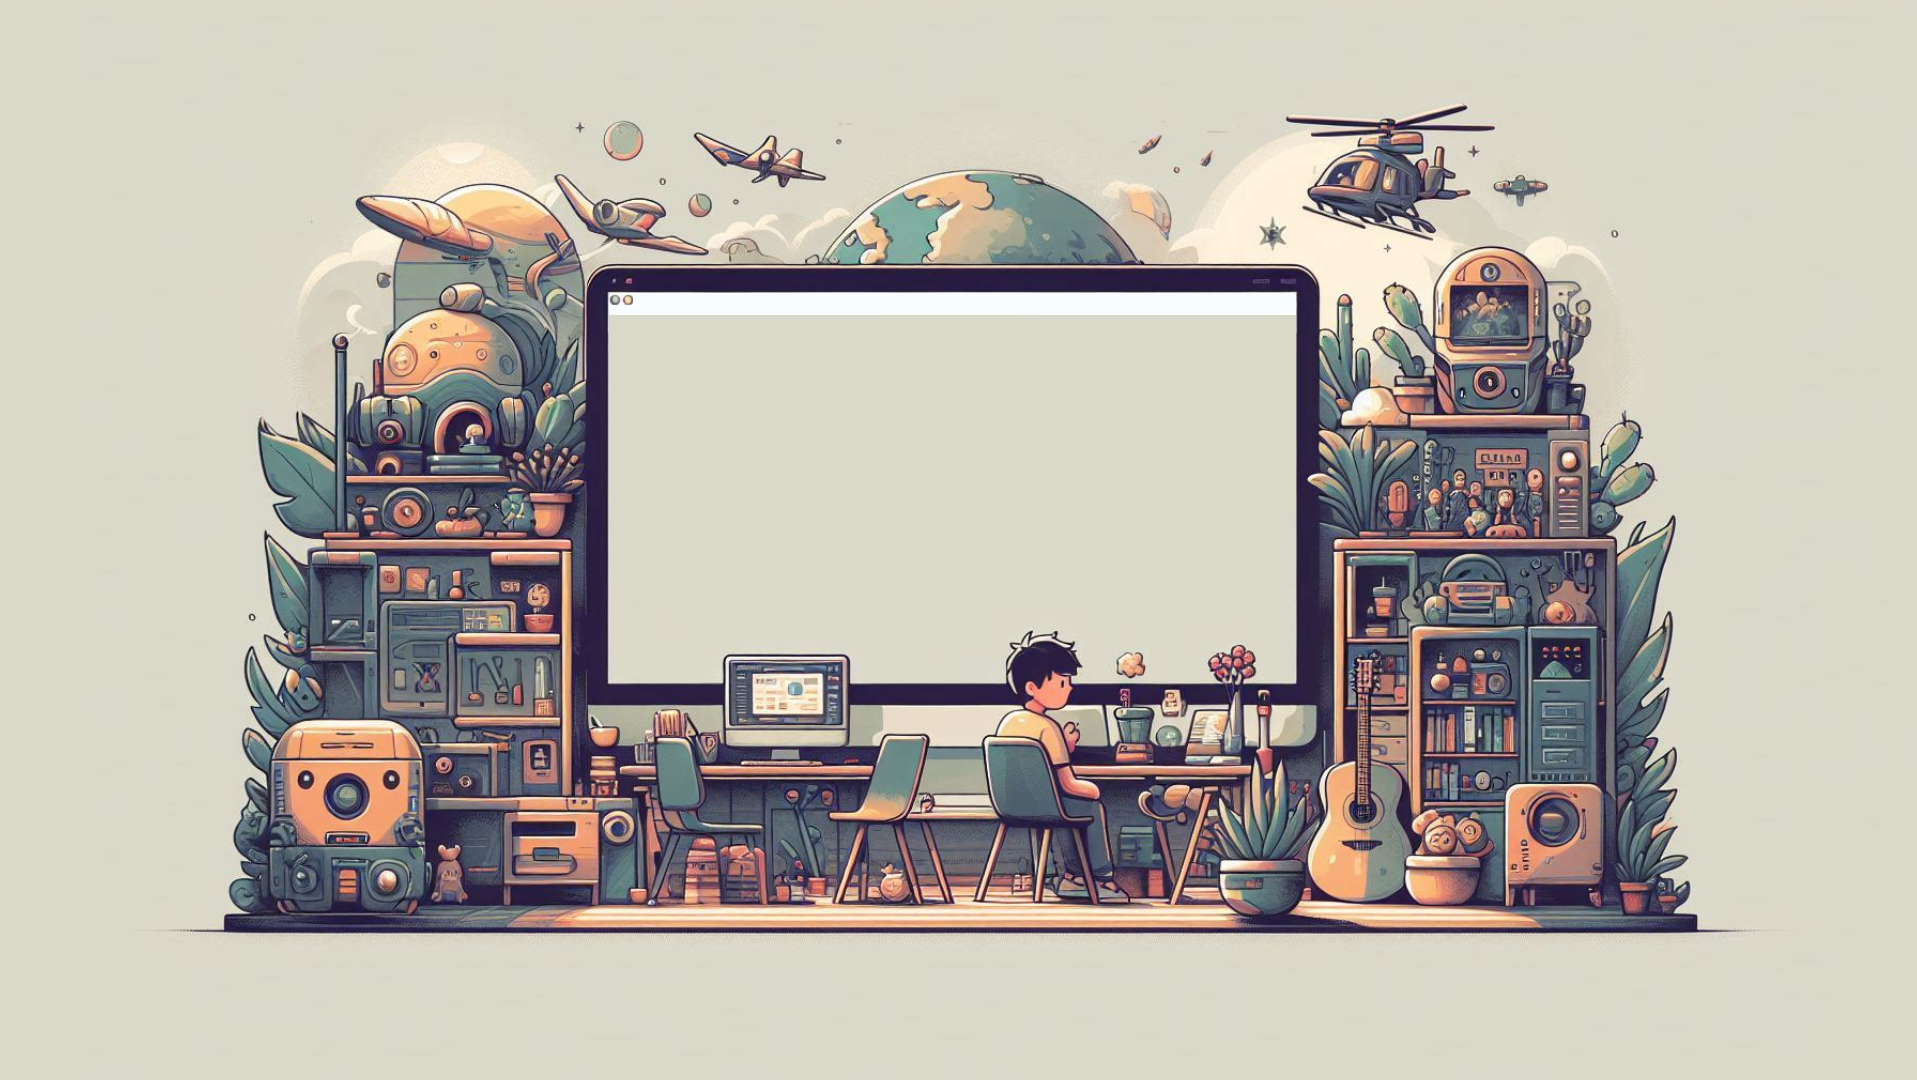
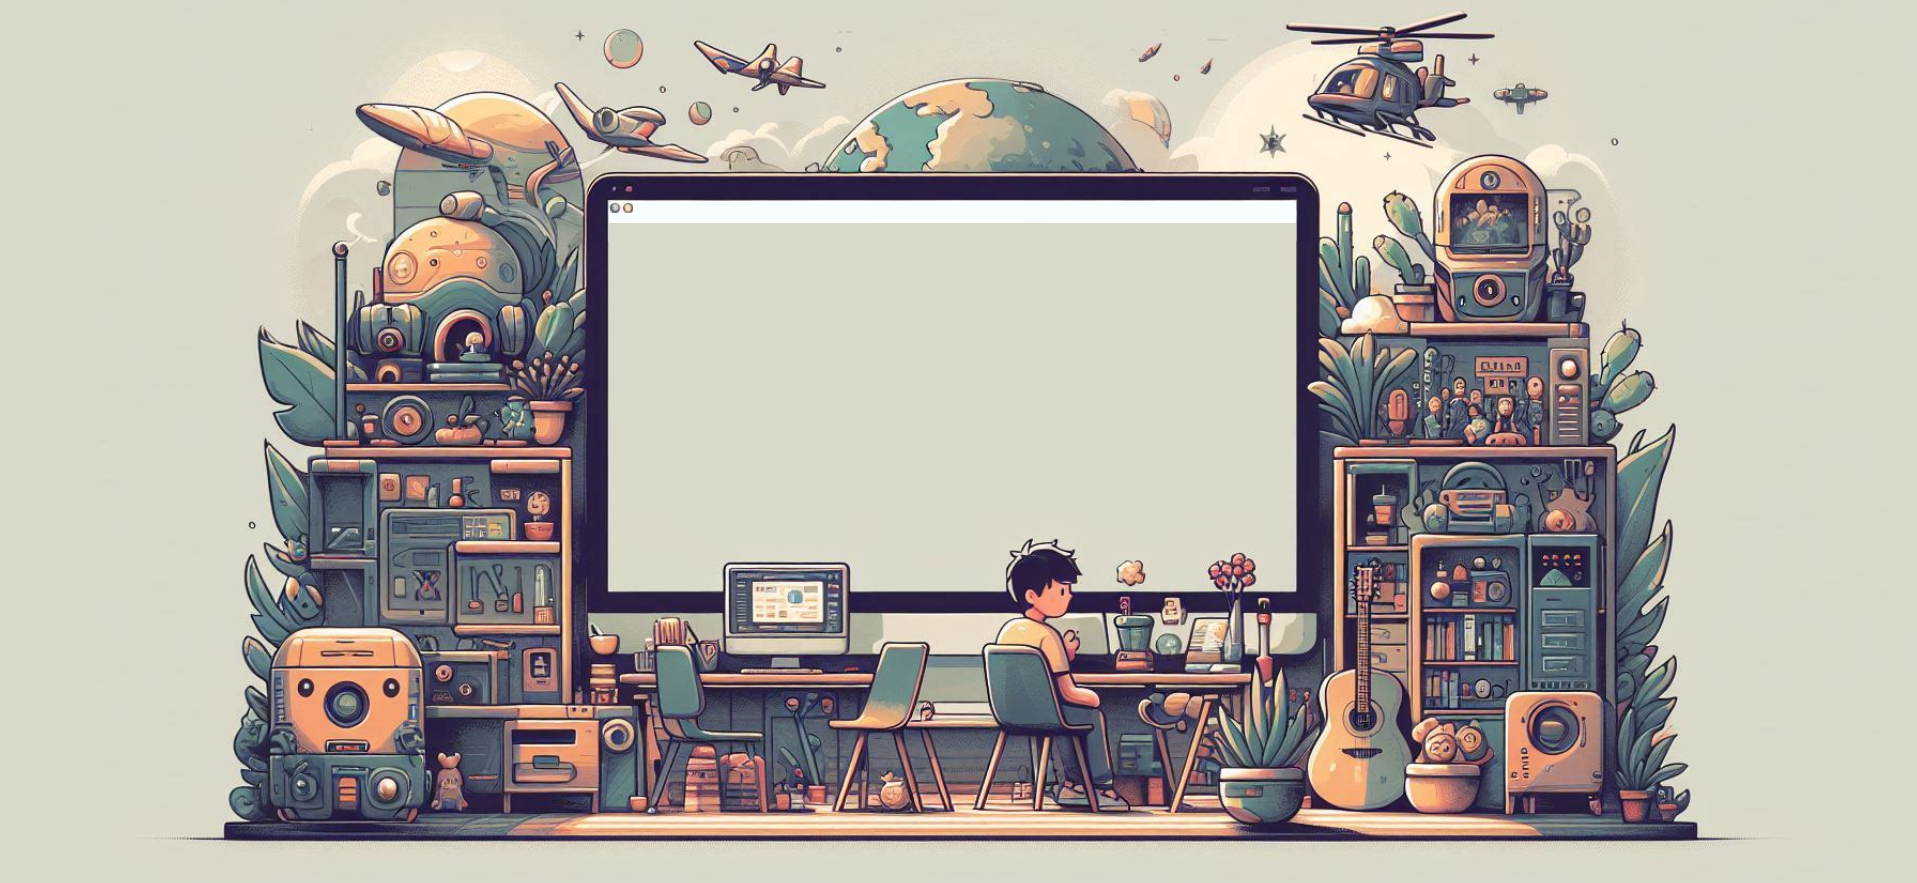
Adjust Welcome page sizing

diff --git a/index.html b/index.html
@@ -28,7 +28,7 @@
             </div>
 
             <div class = "welcome-outer">
-                <img class = "title-background" src="images/welcomePage.png" height="1080" width="1920">
+                <img class = "title-background" src="images/welcomePage.png" height="883" width="1920">
                 <div class="main_title unselectable">
                     Owen Liu
                     <p class="sub-title">A Passion for Coding, Love of Innovation: <br> A Portfolio of My Journey in Tech</p>

diff --git a/styles.css b/styles.css
@@ -66,7 +66,7 @@ nav ul li a:hover{
 
 .welcome-page{
 	background-color: #dad8c9;
-    height: 1300px;
+    height: 1200px;
 }
 
 .welcome-outer{
@@ -84,7 +84,6 @@ nav ul li a:hover{
 	top: 50%;
     left: 50%; 
     transform: translate(-50%, -50%); /* Centers the element */
-    margin-top: 51px;
     margin-left: auto;
     margin-right: auto;
     margin-bottom: 20px;
